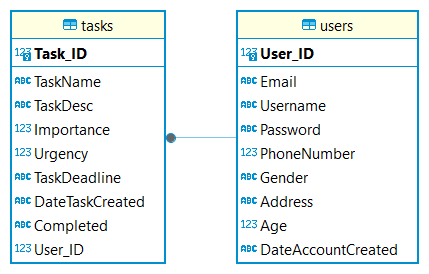
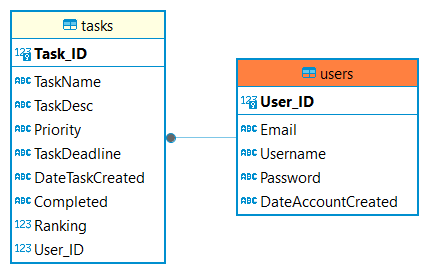
Version 1.00

diff --git a/templates/faq.html b/templates/faq.html
@@ -1,0 +1,121 @@
+<!DOCTYPE html>
+<html lang="en">
+<head>
+    <meta charset="UTF-8">
+    <meta name="viewport" content="width=device-width, initial-scale=1.0">
+    <title>Task Management Dashboard FAQ</title>
+    <link rel="stylesheet" type="text/css" href="{{ url_for('static', filename='css/main.css') }}">
+
+    <style>
+        body {
+            font-family: 'Arial', sans-serif;
+            background: linear-gradient(to bottom, #87CEFA, #FFFFFF);
+            margin: 0;
+            display: flex;
+            align-items: center;
+            justify-content: center;
+            min-height: 100vh;
+            padding: 20px;
+        }
+
+        h1, h2, p {
+            color: #333;
+            text-align: center;
+        }
+
+        .faq-container {
+            width: 80%;
+            max-width: 800px;
+            background: #f9f9f9;
+            padding: 20px;
+            border-radius: 10px;
+            box-shadow: 0 4px 10px rgba(0, 0, 0, 0.1);
+        }
+
+        .faq-item {
+            margin-bottom: 20px;
+        }
+
+        .faq-item h3 {
+            font-size: 1.25rem;
+            color: #007bff;
+            margin-bottom: 10px;
+        }
+
+        .faq-item p {
+            font-size: 1rem;
+            color: #333;
+        }
+
+        button, a {
+            padding: 8px 16px;
+            color: #fff;
+            background-color: #007bff;
+            border: none;
+            border-radius: 5px;
+            text-decoration: none;
+            font-weight: bold;
+            cursor: pointer;
+        }
+
+        button:hover, a:hover {
+            background-color: #6d3e82;
+        }
+    </style>
+</head>
+
+<body>
+    <div class="faq-container">
+        <h1>Frequently Asked Questions (FAQ)</h1>
+
+        <div class="faq-item">
+            <h3>1. How do I create a new task?</h3>
+            <p>To create a new task, fill out the "Task Name", "Task Description", "Priority", "Task Ranking", and "Task Deadline" fields in the form provided. Once all fields are completed, click the "Add Task" button to save the task.</p>
+        </div>
+
+        <div class="faq-item">
+            <h3>2. How can I edit an existing task?</h3>
+            <p>To edit an existing task, click the "Edit" link next to the task you want to modify. You will be able to update the task details and save the changes.</p>
+        </div>
+
+        <div class="faq-item">
+            <h3>3. How do I mark a task as complete?</h3>
+            <p>To mark a task as complete, click the "Mark as Complete" button next to the task. Once completed, the task status will change to "✓" and no longer be listed under incomplete tasks.</p>
+        </div>
+
+        <div class="faq-item">
+            <h3>4. How can I delete a task?</h3>
+            <p>To delete a task, click the "Delete" link next to the task. A confirmation prompt will appear to ensure that you want to delete the task. If confirmed, the task will be removed from your list.</p>
+        </div>
+
+        <div class="faq-item">
+            <h3>5. How do I search for tasks?</h3>
+            <p>You can search for tasks using the search bar at the top of the page. Enter keywords related to the task name or description and click the "Search" button to filter tasks accordingly.</p>
+        </div>
+
+        <div class="faq-item">
+            <h3>6. How can I sort the tasks?</h3>
+            <p>You can sort tasks by "Priority", "Task Name", "Task Deadline", or "Date Created" using the sorting dropdown. Select the criteria you want to sort by and choose the order (ascending or descending), then click "Sort" to update the list.</p>
+        </div>
+
+        <div class="faq-item">
+            <h3>7. How can I filter tasks based on status or priority?</h3>
+            <p>Use the filtering options to display tasks based on their status (completed or incomplete) or priority (all priorities, Important-Urgent, etc.). Choose the appropriate options from the dropdowns and click "Filter" to see the updated list.</p>
+        </div>
+
+        <div class="faq-item">
+            <h3>8. What is the "Ask Taski" feature?</h3>
+            <p>The "Ask Taski" feature allows you to ask a virtual assistant for help with a task. Click on the "Ask Taski" link next to any task to start the conversation. Taski will assist you with task-related queries.</p>
+        </div>
+
+        <div class="faq-item">
+            <h3>9. How do I log out?</h3>
+            <p>To log out of your account, click the "Logout" link at the top of the page. This will end your current session and return you to the login screen.</p>
+        </div>
+
+        <div style="text-align: center;">
+            <a href="{{ url_for('dashboard') }}">Return to Dashboard</a>
+        </div>
+    </div>
+</body>
+</html>

diff --git a/templates/dashboard.html b/templates/dashboard.html
@@ -163,7 +163,7 @@
     
         .task-item a {
             font-size: 0.9rem;
-            color: white;
+            color: blue;
             text-decoration: none;
             margin: 0 5px;
         }
@@ -219,6 +219,7 @@
         <section class="dashboard-section">
             <p><strong>Welcome, {{ name }}!</strong></p>
             <h4><a href="{{ url_for('Home') }}"><strong>Logout</strong></a></h4>
+            <h4><a href="{{ url_for('faq') }}"><strong>FAQ Page</strong></a></h4>
         </section>
 
         <form method="POST" action="{{ url_for('dashboard') }}" class="form-container">
@@ -270,16 +271,20 @@
             <td>{{ task[5] }}</td>
             <td>{% if task[6] == 'true' %}✓{% else %}Incomplete{% endif %}</td>
             <td>
+                
                 <a href="{{ url_for('update_task', task_id=task[0]) }}" class="task-item">Edit</a> |
                 <a href="{{ url_for('delete_task', task_id=task[0]) }}" class="task-item" onclick="return confirmDeleteTask()">Delete</a> |
-                <a href="javascript:void(0);" class="task-item" onclick="toggleAIChatPanel(this)" data-task='{{ task | tojson }}'>Ask Taski</a>
+                <a href="javascript:void(0);" class="task-item" onclick="toggleAIChatPanel(this)" data-task='{{ task | tojson }}'>Ask AI</a>
+
                 {% if task[6] == 'false' %}
                 <form method="POST" action="{{ url_for('dashboard') }}" class="complete-task-form" style="display:inline;">
                     <button type="submit" name="complete_task" value="{{ task[0] }}">Mark as Complete</button>
                 </form>
                 {% endif %}
             </td>
+            
         </tr>
+        
         {% endfor %}
     </tbody>
 </table>

diff --git a/app.py b/app.py
@@ -36,8 +36,8 @@ app=Flask(__name__)
 app.secret_key="__privatekey__"
 
 #Defines the Hugging Face model that will be used (TinyLlama in this case)
-os.environ['HF_TOKEN'] = "your-token"
-login(token="your-token-again")
+os.environ['HF_TOKEN'] = "your_token"
+login(token="your_token")
 
 
 #Change this to use a different model
@@ -131,7 +131,9 @@ def Taski(task, query):
 #End of Taski function
 
 
-
+@app.route('/faq')
+def faq():
+    return render_template('faq.html')
 
 #The Home Page is located as the root of the web page
 @app.route('/')

diff --git a/README.md b/README.md
@@ -27,7 +27,12 @@ In order to run this program follow the steps below;
 - Run: flask app.py
 
 # Contributor Roles: 
- - Israel Showell; Full Stack-Developer, Database and Server Manager; Implemented the Back-End, the bare bones Front-End, Database schema and implementation, and Server hosting via PythonAnywhere
+ - Israel Showell; Project Manager, Full-Stack (Front-End & Back-End) Developer, Tester, Database Manager & Designer, Server Manager, & Cl/CD (Deployment) Pipeline Manager, Documentation, Diagram Designer.
+
+ - Byronous Mario Fritz-Gerald Robinson II; Front-End Developer, Documentation, Tester, Diagram Designer
+
+ Christopher Turnbull, Kaleigha Hayes, Jerome Foster, Steker Jean Francois; Front-End Developer,  Documentation, Tester
+
 
 
 # Version History:
@@ -99,13 +104,24 @@ In order to run this program follow the steps below;
 - Implemented AI into the Dashboard using Hugging Face
 - Merged changes into the production version of the application
 
-# Current Features as of V-0.95:
-- Version 0.95 is an internal development version, the official release version will be 1.00!
+
+# Version History:
+# V-1.00: (12-7-24)
+# Contributors: Israel Showell, Byronous Robinson, Christopher Turnbull, Jerome Foster, Kaleigha Hayes, Steker Jean Francois
+- Updated UI elements of the Sign Up and Dashboard 
+- Add FAQ page to assist users in using the application
+
+
+# Current Features as of V-1.00:
+- Users can create accounts and reset their password
+- Users can create, edit, delete, sort, search, and filter tasks
+- Users can ask for helpful information about their tasks via our AI-powered chatbot
 
 # Future Features to Implement:
 - Task managemnt functions such as adding, editing, deleting, etc - Done!
 - Get the web application working online with the database - Done!
-- UI and UX needs to be implemented to streamline the web application - In progress!
+- UI and UX needs to be implemented to streamline the web application - Done!
+- AI chatbot needs to be implemented - Done!
 
 # Known/Possible Bugs:
 - No errors.....yet (Israel)
